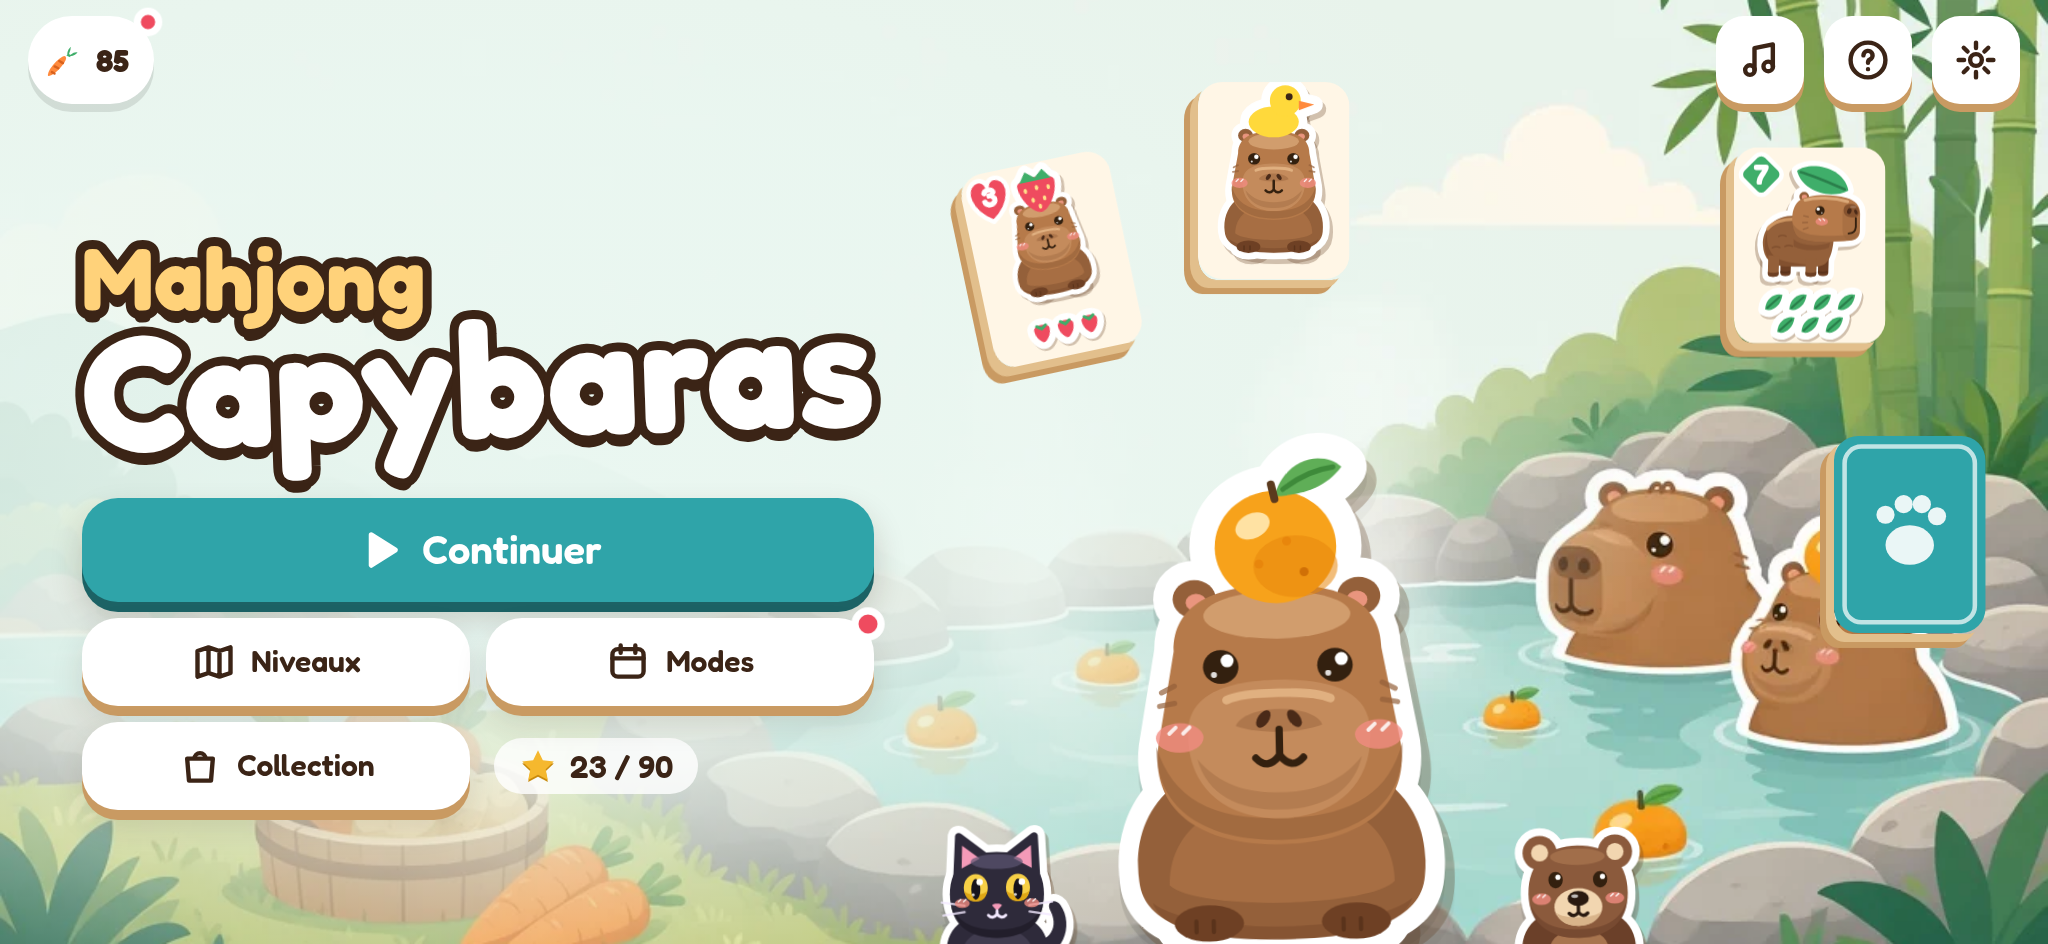
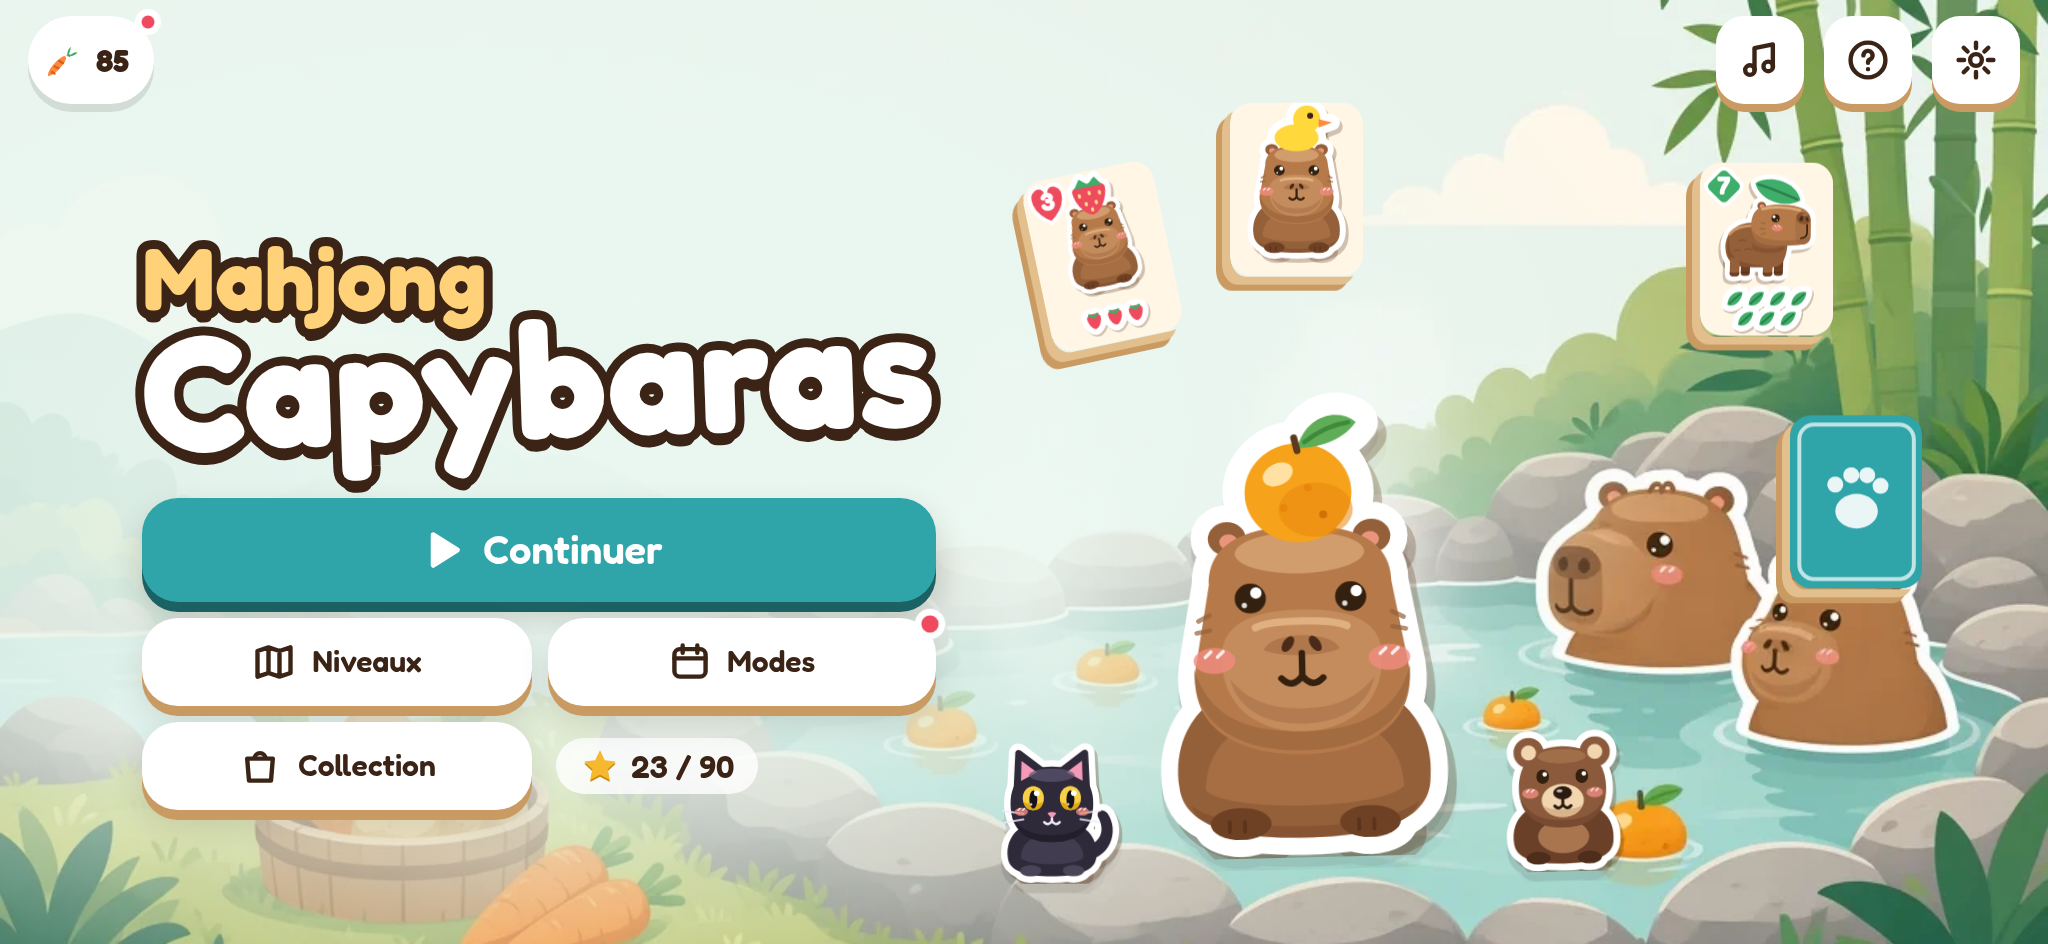
Accueil : mascottes dimensionnées selon la hauteur dispo (chat, ours et capy entièrement visibles), test e2e

diff --git a/e2e/features.spec.ts b/e2e/features.spec.ts
@@ -257,6 +257,25 @@ test('home: carrot pill and corner buttons never overlap the title or menu (iPho
   }
   await expect(page.locator('.home .tag')).toHaveCount(0);
 });
+test('home: cat, bear and mascot A are fully visible with breathing room and never touch the buttons (phone sizes, notch, desktop)', async ({ page }) => {
+  await seed(page, { carrots: 85 });
+  const mobile = test.info().project.name.startsWith('mobile');
+  const cdp = await page.context().newCDPSession(page);
+  const sizes = mobile ? [{ width: 1024, height: 472 }, { width: 932, height: 430 }, { width: 844, height: 390 }, { width: 667, height: 375 }] : [{ width: 1440, height: 900 }, { width: 1280, height: 720 }, { width: 1024, height: 640 }];
+  for (const inset of mobile ? [null, { top: 0, left: 59, right: 59, bottom: 21 }] : [null]) {
+    if (inset) await cdp.send('Emulation.setSafeAreaInsetsOverride', { insets: inset });
+    for (const vp of sizes) {
+      await page.setViewportSize(vp); await page.goto('/'); await page.waitForFunction(() => document.body.classList.contains('home-art'));
+      const btns = await Promise.all(['#h-play', '#h-levels', '#h-modes', '#h-coll', '.total'].map((s) => box(page, s)));
+      for (const sel of ['.hero-capy:not(.small)', '.hero-friend.f-cat', '.hero-friend.f-bear']) {
+        const m = await box(page, sel); const tag = `${sel} ${vp.width}x${vp.height} ${JSON.stringify(inset)}`;
+        expect(m.y + m.height, tag).toBeLessThanOrEqual(vp.height - (inset ? inset.bottom : 0) - 6);
+        expect(m.x, tag).toBeGreaterThanOrEqual(0); expect(m.x + m.width, tag).toBeLessThanOrEqual(vp.width);
+        for (const b of btns) expect(overlaps(m, b), tag).toBe(false);
+      }
+    }
+  }
+});
 test('PWA + SEO: standalone manifest with wide screenshots, French meta, JSON-LD, robots and sitemap', async ({ page }) => {
   const m = await (await page.request.get('/manifest.webmanifest')).json();
   expect(m.display).toBe('standalone'); expect(m.display_override).toContain('fullscreen'); expect(m.lang).toBe('fr'); expect(m.id).toBeTruthy(); expect(m.categories).toContain('games');

diff --git a/src/style.css b/src/style.css
@@ -408,3 +408,9 @@ button.wallet{border:0;font:inherit;color:inherit}
 .home .logo{margin-bottom:10px}
 @media (max-height:500px){.home .logo{margin-bottom:8px}}
 @media (min-width:1100px) and (min-height:700px){.home .logo{margin-bottom:18px}}
+/* Home mascots: size the art box from the height left under the top band (container = .home content box,
+   already inside the safe-area padding of .view), so the cat, the bear and mascot A never hit the bottom edge. */
+.home{container-type:size}
+.home-r{--hr-max:520px;max-width:min(var(--hr-max),calc((100cqh - 18px) * 1.15));align-self:center}
+@media (min-width:1100px) and (min-height:700px){.home-r{--hr-max:640px}}
+.home-art .hero-friend.f-bear{bottom:2%}.home-art .hero-friend.f-cat{bottom:2%}.home-art .hero-capy{bottom:4%}
